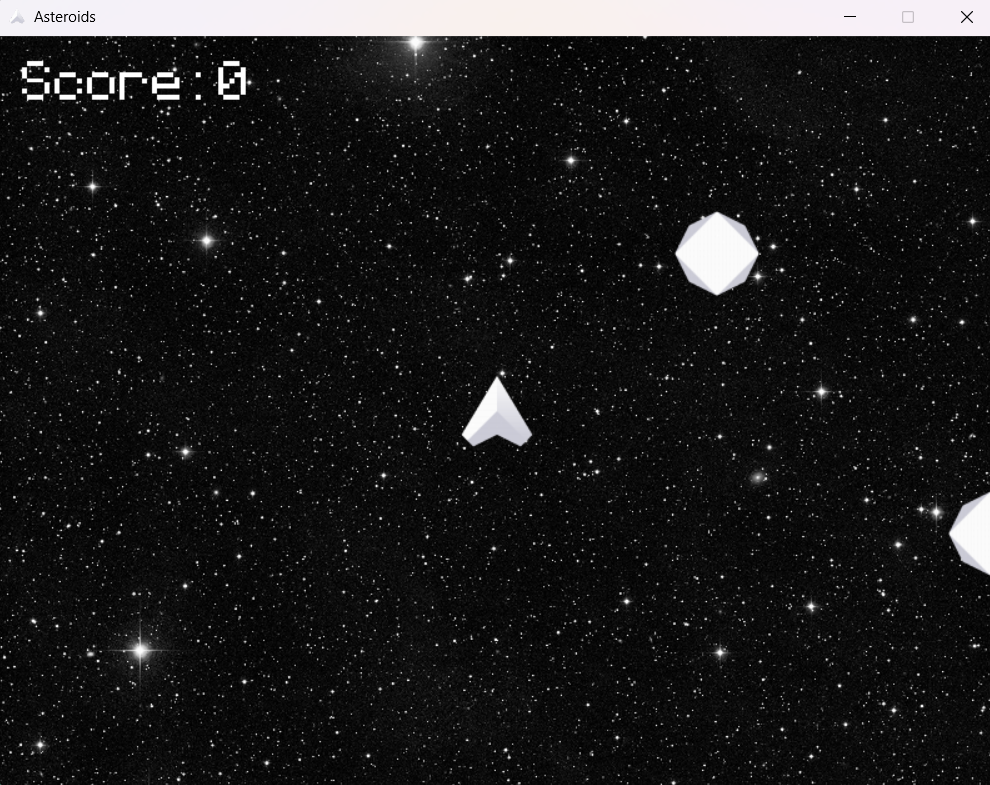
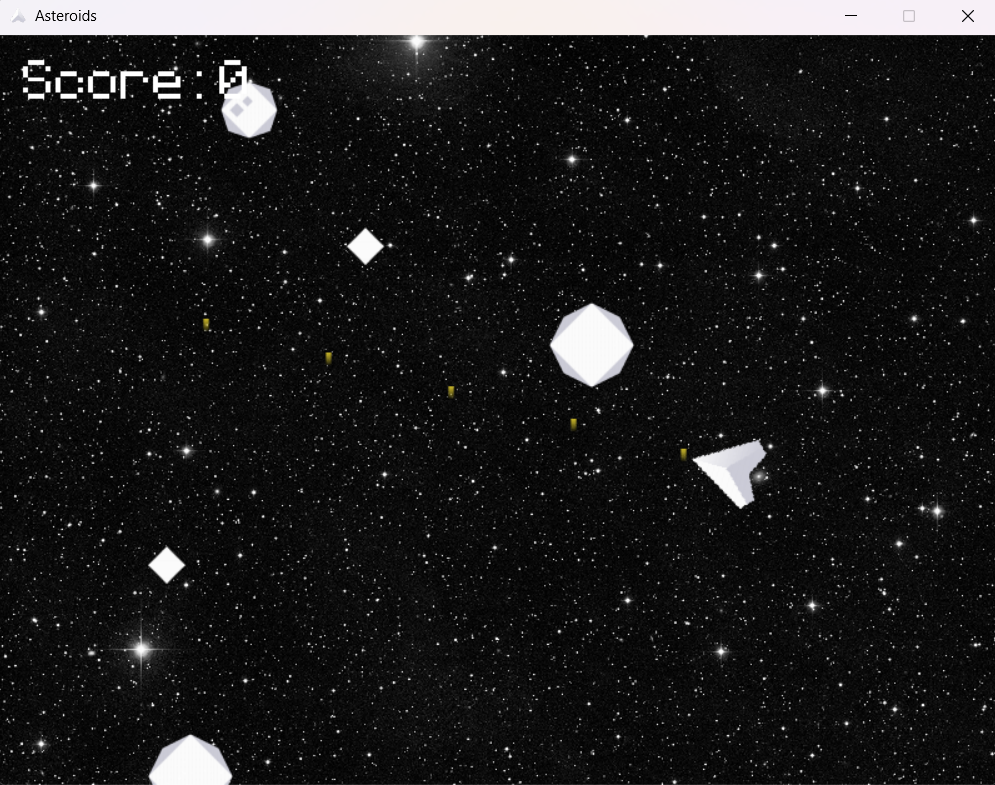
Better Directory Names

diff --git a/asteroids.py b/asteroids.py
@@ -4,6 +4,7 @@ from random import choice, randint, uniform
 pygame.mixer.init()
 pygame.init()
 screen = pygame.display.set_mode((800,600))
+pygame.display.set_caption('Asteroids')
 is_running = True
 clock = pygame.time.Clock()
 bullets = pygame.sprite.Group()
@@ -12,13 +13,15 @@ Font = pygame.font.Font(font_dir, 20)
 asteroid_image_large = pygame.image.load('PNG/Retina/meteor_large.png').convert_alpha()
 asteroid_image_medium = pygame.image.load(r'PNG\Retina\meteor_detailedSmall.png').convert_alpha()
 asteroid_image_small = pygame.image.load(r'PNG\Retina\meteor_tiny.png').convert_alpha()
-asteroid_image_large = pygame.transform.scale(asteroid_image_large,(90,90))
-asteroid_image_medium = pygame.transform.scale(asteroid_image_medium,(90,90))
-asteroid_image_small = pygame.transform.scale(asteroid_image_small,(120,120))
+asteroid_image_large = pygame.transform.smoothscale(asteroid_image_large,(90,90))
+asteroid_image_medium = pygame.transform.smoothscale(asteroid_image_medium,(90,90))
+asteroid_image_small = pygame.transform.smoothscale(asteroid_image_small,(120,120))
 bullets_img = pygame.image.load(r'PNG\Retina\effect_yellow.png').convert_alpha()
 bullets_img=pygame.transform.scale(bullets_img, (10,10))
 ship_img =  pygame.image.load(r'PNG\Retina\ship_E.png').convert_alpha()
+ship_img=pygame.transform.smoothscale_by(ship_img,0.6)
 ship_rect = ship_img.get_rect(center=(400,300))
+
 pygame.mixer.music.load("sound/bgm.ogg")
 pygame.mixer.music.set_volume(0.4)
 pygame.mixer.music.play(-1)
@@ -31,6 +34,7 @@ medium_explosion = pygame.mixer.Sound('sound/bangMedium.wav')
 small_explosion = pygame.mixer.Sound('sound/bangSmall.wav')
 fire_sound = pygame.mixer.Sound('sound/fire.wav')
 fire_sound.set_volume(0.5)
+pygame.display.set_icon(ship_img)
 class Asteroids(pygame.sprite.Sprite):
     def __init__(self, stage=3, position=None, Velocity=None):
         super().__init__()

diff --git a/README.md b/README.md
@@ -1,8 +1,6 @@
 # Asteroids
 
--A pygame-based recreation of the original asteroids game.
-
-
+A recreation of the classic **Asteroids** arcade game built with **Python** and **Pygame**.
 
 # Features
 - Ship movement with inertia
@@ -13,9 +11,47 @@
 - Score system
 - Restart menu
 
-# Controls
-- ↑ Thrust
-- ← → Rotate
-- Space Shoot
-- R Restart
+## Screenshots
+
+### Main Menu
+
+![Main Menu](screenshots/start_screen.png)
+
+### Gameplay
+
+![Gameplay](screenshots/gameplay.png)
+
+### Game Over
+
+![Game Over](screenshots/game_over.png)
+
+## Controls
+
+| Key | Action |
+|------|--------|
+| ↑ | Thrust |
+| ← → | Rotate |
+| Space | Shoot |
+| R | Restart (Game Over screen) |
+
+## Installation
+
+```bash
+git clone https://github.com/polestarchill/Asteroids.git
+cd Asteroids
+pip install pygame
+python main.py
+```
+
+> Replace `main.py` with your filename if its different
+
+ 
+### Art
+- Kenney — Simple Space / Space Shooter assets
+
+### Sound Effects
+- Based on the original Asteroids arcade game sounds, obtained from Classic Gaming.
+
+### Music
+- Background music from the Hat-Tap Asteroids asset pack on itch.io.
 